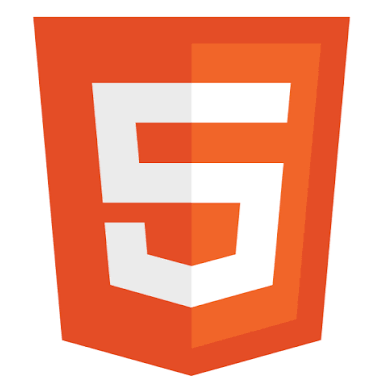
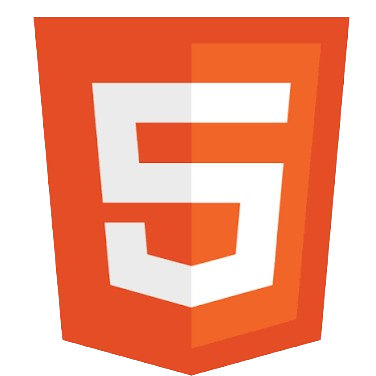
Modified Skill Images, Updated Work-Experience Section

diff --git a/src/components/ExperienceSection.tsx b/src/components/ExperienceSection.tsx
@@ -2,9 +2,10 @@ import { motion } from 'motion/react';
 import { resumeData } from '../data/resume';
 import { ThemeOption } from '../types';
 import { Briefcase, Calendar, MapPin, CheckCircle2, Terminal, Building2, GraduationCap, Award, BookOpen } from 'lucide-react';
-import { HenkelLogo } from './logos/HenkelLogo';
-import { UstLogo } from './logos/UstLogo';
-import { DlslLogo } from './logos/DlslLogo';
+
+const henkelLogo = new URL('../assets/work-education/henkel.png', import.meta.url).href;
+const ustLogo = new URL('../assets/work-education/ust.png', import.meta.url).href;
+const dlslLogo = new URL('../assets/work-education/dlsl.png', import.meta.url).href;
 
 interface ExperienceSectionProps {
   currentTheme: ThemeOption;
@@ -57,9 +58,9 @@ export function ExperienceSection({ currentTheme, isDarkMode }: ExperienceSectio
                 {/* Left Side of Timeline Line (Desktop md+): Square Logo ABOVE Date Range */}
                 <div className="hidden md:flex md:w-[130px] pr-5 pt-1 flex-col items-end shrink-0 text-right space-y-2">
                   {/* Square Enclosed Company Logo */}
-                  <div className="w-14 h-14 rounded-xl bg-white shadow-md border border-slate-200/90 p-1 flex items-center justify-center shrink-0 transition-transform duration-300 hover:scale-105 aspect-square overflow-hidden">
+                  <div className="w-14 h-14 rounded-xl bg-slate-900 shadow-md border border-slate-200/90 flex items-center justify-center shrink-0 transition-transform duration-300 hover:scale-105 aspect-square overflow-hidden">
                     {exp.companyLogo === 'henkel' || exp.company.toLowerCase().includes('henkel') ? (
-                      <HenkelLogo className="w-full h-full object-contain" />
+                      <img src={henkelLogo} alt="Henkel" className="w-full h-full object-cover" />
                     ) : (
                       <Building2 className="w-7 h-7 text-slate-700" />
                     )}
@@ -101,9 +102,9 @@ export function ExperienceSection({ currentTheme, isDarkMode }: ExperienceSectio
                       <div className="min-w-0">
                         {/* Mobile Square Logo & Date Badge */}
                         <div className="md:hidden flex items-center gap-3 mb-3">
-                          <div className="w-12 h-12 rounded-lg bg-white shadow-md border border-slate-200/90 p-1 flex items-center justify-center shrink-0 aspect-square overflow-hidden">
+                          <div className="w-12 h-12 rounded-lg bg-slate-900 shadow-md border border-slate-200/90 flex items-center justify-center shrink-0 aspect-square overflow-hidden">
                             {exp.companyLogo === 'henkel' || exp.company.toLowerCase().includes('henkel') ? (
-                              <HenkelLogo className="w-full h-full object-contain" />
+                              <img src={henkelLogo} alt="Henkel" className="w-full h-full object-cover" />
                             ) : (
                               <Building2 className="w-6 h-6 text-slate-700" />
                             )}
@@ -170,8 +171,7 @@ export function ExperienceSection({ currentTheme, isDarkMode }: ExperienceSectio
                     <GraduationCap className="w-3 h-3" />
                   </div>
                 </div>
-                <div className="pl-10 md:pl-8 flex items-center gap-2 text-cyan-400 font-mono text-xs font-bold uppercase tracking-wider">
-                  <GraduationCap className="w-4 h-4" />
+                <div className="pl-16 md:pl-14 flex items-center gap-2 text-cyan-400 font-mono text-xs font-bold uppercase tracking-wider">
                   <span>Education & Academic Background</span>
                 </div>
               </div>
@@ -194,11 +194,11 @@ export function ExperienceSection({ currentTheme, isDarkMode }: ExperienceSectio
                   {/* Left Side of Timeline Line (Desktop md+): Academic Logo ABOVE Date Range */}
                   <div className="hidden md:flex md:w-[130px] pr-5 pt-1 flex-col items-end shrink-0 text-right space-y-2">
                     {/* Square Academic Logo Container */}
-                    <div className="w-14 h-14 rounded-xl bg-slate-900 shadow-md border border-cyan-500/30 p-1.5 flex items-center justify-center shrink-0 transition-transform duration-300 hover:scale-105 aspect-square overflow-hidden">
-                      {isUst ? (
-                        <UstLogo className="w-full h-full object-contain" />
-                      ) : isDlsl ? (
-                        <DlslLogo className="w-full h-full object-contain" />
+<div className="w-14 h-14 rounded-xl bg-slate-900 shadow-md border border-cyan-500/30 flex items-center justify-center shrink-0 transition-transform duration-300 hover:scale-105 aspect-square overflow-hidden">
+                        {isUst ? (
+                          <img src={ustLogo} alt="UST" className="w-full h-full object-cover" />
+                        ) : isDlsl ? (
+                          <img src={dlslLogo} alt="DLSL" className="w-full h-full object-cover" />
                       ) : (
                         <GraduationCap className="w-7 h-7 text-cyan-400" />
                       )}
@@ -239,11 +239,11 @@ export function ExperienceSection({ currentTheme, isDarkMode }: ExperienceSectio
                         <div className="min-w-0">
                           {/* Mobile Square Logo & Date Badge */}
                           <div className="md:hidden flex items-center gap-3 mb-3">
-                            <div className="w-12 h-12 rounded-lg bg-slate-900 shadow-md border border-cyan-500/30 p-1.5 flex items-center justify-center shrink-0 aspect-square overflow-hidden">
+                            <div className="w-12 h-12 rounded-lg bg-slate-900 shadow-md border border-cyan-500/30 flex items-center justify-center shrink-0 aspect-square overflow-hidden">
                               {isUst ? (
-                                <UstLogo className="w-full h-full object-contain" />
+                                <img src={ustLogo} alt="UST" className="w-full h-full object-cover" />
                               ) : isDlsl ? (
-                                <DlslLogo className="w-full h-full object-contain" />
+                                <img src={dlslLogo} alt="DLSL" className="w-full h-full object-cover" />
                               ) : (
                                 <GraduationCap className="w-6 h-6 text-cyan-400" />
                               )}

diff --git a/src/components/SkillsSection.tsx b/src/components/SkillsSection.tsx
@@ -22,45 +22,47 @@ const CubeIcon = () => (
 );
 
 // Brand photo mapping for software technology items
-function getSkillIcon(name: string) {
-  const nameLower = name.toLowerCase();
+const skillLogoMap: Record<string, string> = {
+  angular: new URL('../assets/skills/angularjs.png', import.meta.url).href,
+  bootstrap: new URL('../assets/skills/bootstrap.png', import.meta.url).href,
+  canva: new URL('../assets/skills/canva.png', import.meta.url).href,
+  css3: new URL('../assets/skills/CSS3.png', import.meta.url).href,
+  drawio: new URL('../assets/skills/drawio.png', import.meta.url).href,
+  express: new URL('../assets/skills/expressjs.png', import.meta.url).href,
+  figma: new URL('../assets/skills/figma.png', import.meta.url).href,
+  firebase: new URL('../assets/skills/firebase.png', import.meta.url).href,
+  git: new URL('../assets/skills/git.png', import.meta.url).href,
+  github: new URL('../assets/skills/github.png', import.meta.url).href,
+  heidisql: new URL('../assets/skills/heidisql.png', import.meta.url).href,
+  html5: new URL('../assets/skills/html5.png', import.meta.url).href,
+  lucidchart: new URL('../assets/skills/lucidchart.png', import.meta.url).href,
+  java: new URL('../assets/skills/java.png', import.meta.url).href,
+  javascript: new URL('../assets/skills/javascript.png', import.meta.url).href,
+  laravel: new URL('../assets/skills/phplaravel.png', import.meta.url).href,
+  materializecss: new URL('../assets/skills/materializecss.png', import.meta.url).href,
+  mysql: new URL('../assets/skills/mysqlworkbench.png', import.meta.url).href,
+  patchmypc: new URL('../assets/skills/patchmypc.png', import.meta.url).href,
+  php: new URL('../assets/skills/php.png', import.meta.url).href,
+  powershell: new URL('../assets/skills/powershell.png', import.meta.url).href,
+  react: new URL('../assets/skills/reactjs.png', import.meta.url).href,
+  sdlc: new URL('../assets/skills/sdlc.png', import.meta.url).href,
+  trello: new URL('../assets/skills/trello.png', import.meta.url).href,
+  servicenow: new URL('../assets/skills/servicenow.png', import.meta.url).href,
+};
 
-  let src = '';
+function getSkillIcon(name: string, logoKey?: string) {
+  const candidateKey = (logoKey || name)
+    .toLowerCase()
+    .replace(/[^a-z0-9]/g, '');
 
-  if (nameLower.includes('php') && !nameLower.includes('laravel')) src = '/assets/skills/php.svg';
-  else if (nameLower.includes('laravel')) src = '/assets/skills/laravel.svg';
-  else if (nameLower.includes('java') && !nameLower.includes('script')) src = '/assets/skills/java.svg';
-  else if (nameLower.includes('javascript') || nameLower === 'js') src = '/assets/skills/javascript.svg';
-  else if (nameLower.includes('html')) src = '/assets/skills/html5.svg';
-  else if (nameLower.includes('css') && !nameLower.includes('materialize')) src = '/assets/skills/css3.svg';
-  else if (nameLower.includes('react')) src = '/assets/skills/reactjs.svg';
-  else if (nameLower.includes('angular')) src = '/assets/skills/angularjs.svg';
-  else if (nameLower.includes('express')) src = '/assets/skills/expressjs.svg';
-  else if (nameLower.includes('bootstrap')) src = '/assets/skills/bootstrap.svg';
-  else if (nameLower.includes('materialize')) src = '/assets/skills/materializecss.svg';
-  else if (nameLower.includes('mysql')) src = '/assets/skills/mysql-workbench.svg';
-  else if (nameLower.includes('heidisql')) src = '/assets/skills/heidisql.svg';
-  else if (nameLower.includes('firebase') || nameLower.includes('firestore')) src = '/assets/skills/firebase.svg';
-  else if (nameLower.includes('git') && !nameLower.includes('github')) src = '/assets/skills/git.svg';
-  else if (nameLower.includes('github')) src = '/assets/skills/github.svg';
-  else if (nameLower.includes('sdlc')) src = '/assets/skills/sdlc.svg';
-  else if (nameLower.includes('agile') || nameLower.includes('kanban') || nameLower.includes('scrum')) src = '/assets/skills/agile.svg';
-  else if (nameLower.includes('figma')) src = '/assets/skills/figma.svg';
-  else if (nameLower.includes('canva')) src = '/assets/skills/canva.svg';
-  else if (nameLower.includes('draw.io') || nameLower.includes('draw')) src = '/assets/skills/drawio.svg';
-  else if (nameLower.includes('lucid')) src = '/assets/skills/lucidchart.svg';
-  else if (nameLower.includes('powershell')) src = '/assets/skills/powershell.svg';
-  else if (nameLower.includes('patch my pc') || nameLower.includes('patchmypc') || nameLower.includes('packaging')) src = '/assets/skills/patchmypc.svg';
-  else if (nameLower.includes('servicenow')) src = '/assets/skills/servicenow.svg';
-  else if (nameLower.includes('intune')) src = '/assets/skills/intunewin.svg';
-  else if (nameLower.includes('installer')) src = '/assets/skills/installer.svg';
+  const src = skillLogoMap[candidateKey];
 
   if (src) {
     return (
       <img
         src={src}
         alt={name}
-        className="w-full h-full object-contain p-0.5 rounded"
+        className="w-full h-full object-contain rounded-lg"
         loading="lazy"
       />
     );
@@ -198,11 +200,11 @@ export function SkillsSection({ currentTheme, isDarkMode }: SkillsSectionProps) 
                     className={`flex flex-col items-center justify-center p-3.5 rounded-xl border transition-colors text-center gap-2 group ${
                       isDarkMode
                         ? 'bg-slate-900/90 border-slate-800 hover:border-cyan-500/50 hover:bg-slate-800/90 hover:shadow-lg hover:shadow-cyan-950/30'
-                        : 'bg-slate-100 border-slate-200 hover:border-cyan-500/50 hover:bg-slate-200'
+                        : 'bg-slate-100 border border-slate-200 hover:border-cyan-500/50 hover:bg-slate-200'
                     }`}
                   >
-                    <div className="w-9 h-9 flex items-center justify-center transition-transform duration-200 group-hover:scale-110">
-                      {getSkillIcon(skill.name)}
+                    <div className="w-10 aspect-square flex items-center justify-center rounded-2xl overflow-hidden transition-transform duration-200 group-hover:scale-110 bg-slate-950/5 dark:bg-white/5">
+                      {getSkillIcon(skill.name, skill.logoKey)}
                     </div>
                     <span className="text-xs font-semibold text-slate-200 group-hover:text-cyan-300 transition-colors leading-tight text-center">
                       {skill.name}

diff --git a/src/data/resume.ts b/src/data/resume.ts
@@ -23,7 +23,7 @@ export const resumeData: ResumeData = {
     ],
     webDev: [
       {
-        category: "Software Packaging & IT Ops",
+        category: "Software Packaging",
         skills: [
           { name: "Software Packaging and Deployment", logoKey: "packaging" },
           { name: "PowerShell Scripting", logoKey: "powershell" },
@@ -58,7 +58,7 @@ export const resumeData: ResumeData = {
         category: "Databases",
         skills: [
           { name: "MySQL Workbench", logoKey: "mysql" },
-          { name: "HeidiSQL", logoKey: "database" },
+          { name: "HeidiSQL", logoKey: "heidisql" },
           { name: "Firebase Firestore", logoKey: "firebase" }
         ]
       },
@@ -72,17 +72,17 @@ export const resumeData: ResumeData = {
       {
         category: "Methodologies",
         skills: [
-          { name: "SDLC", logoKey: "cpu" },
-          { name: "Agile (Scrum & Kanban)", logoKey: "kanban" }
+          { name: "SDLC", logoKey: "sdlc" },
+          { name: "Agile (Scrum & Kanban)", logoKey: "trello" }
         ]
       },
       {
         category: "Wireframe & Design",
         skills: [
           { name: "Figma", logoKey: "figma" },
-          { name: "Canva", logoKey: "palette" },
-          { name: "Draw.io", logoKey: "diagram" },
-          { name: "Lucidchart", logoKey: "diagram" }
+          { name: "Canva", logoKey: "canva" },
+          { name: "Draw.io", logoKey: "drawio" },
+          { name: "Lucidchart", logoKey: "lucidchart" }
         ]
       }
     ],

diff --git a/src/components/HeroBanner.tsx b/src/components/HeroBanner.tsx
@@ -11,7 +11,7 @@ interface HeroBannerProps {
   onOpenChat: () => void;
 }
 
-const TYPEWRITER_WORDS = ['Full-stack developer', 'Freelance'];
+const TYPEWRITER_WORDS = ['Full-Stack Developer', "It's Freelancer"];
 
 export function HeroBanner({ currentTheme, isDarkMode, onOpenChat }: HeroBannerProps) {
   // Typewriter state
